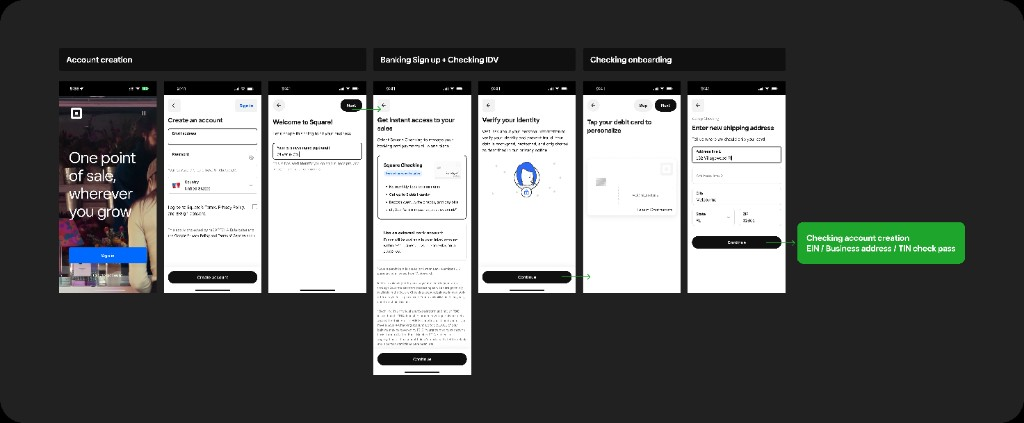
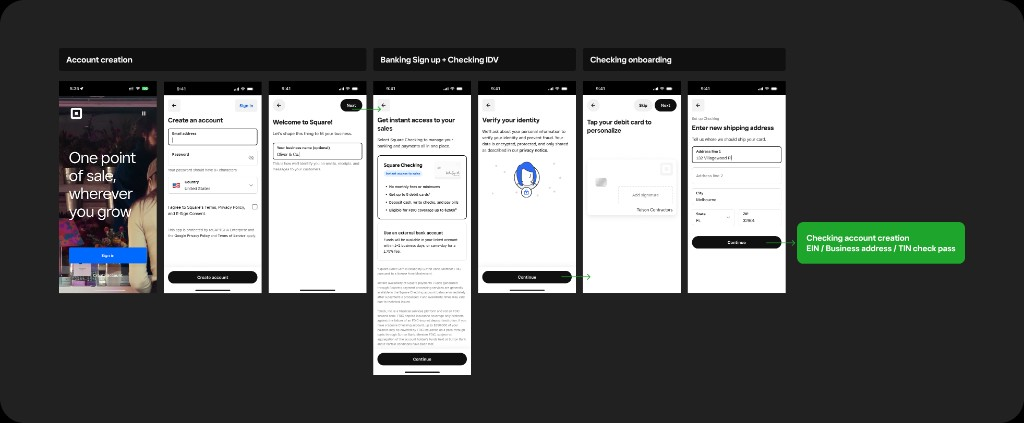
Try latest before and after onboarding flow exports.
Swap in updated flow diagram files and bump asset cache version.

diff --git a/case-study-debit-card-activation.html b/case-study-debit-card-activation.html
@@ -235,7 +235,7 @@
 
           <figure class="cs-figure cs-figure--flow">
             <button type="button" class="cs-flow-expand" aria-label="Expand before flow diagram">
-              <img src="checking-activation-before-flow.png?v=7" alt="Before flow showing Checking account creation only after debit card personalization and shipping address steps" width="1024" height="423" loading="lazy" decoding="async">
+              <img src="checking-activation-before-flow.png?v=8" alt="Before flow showing Checking account creation only after debit card personalization and shipping address steps" width="1024" height="423" loading="lazy" decoding="async">
               <span class="cs-flow-expand__hint">Click to enlarge</span>
             </button>
             <figcaption>Before · Checking account creation happened after physical card ordering</figcaption>
@@ -261,7 +261,7 @@
 
           <figure class="cs-figure cs-figure--flow">
             <button type="button" class="cs-flow-expand" aria-label="Expand after flow diagram">
-              <img src="checking-activation-after-flow.png?v=7" alt="After flow showing Checking account creation before optional debit card ordering with a skip option" width="1024" height="423" loading="lazy" decoding="async">
+              <img src="checking-activation-after-flow.png?v=8" alt="After flow showing Checking account creation before optional debit card ordering with a skip option" width="1024" height="423" loading="lazy" decoding="async">
               <span class="cs-flow-expand__hint">Click to enlarge</span>
             </button>
             <figcaption>After · Checking account creation moved ahead of optional physical card ordering</figcaption>